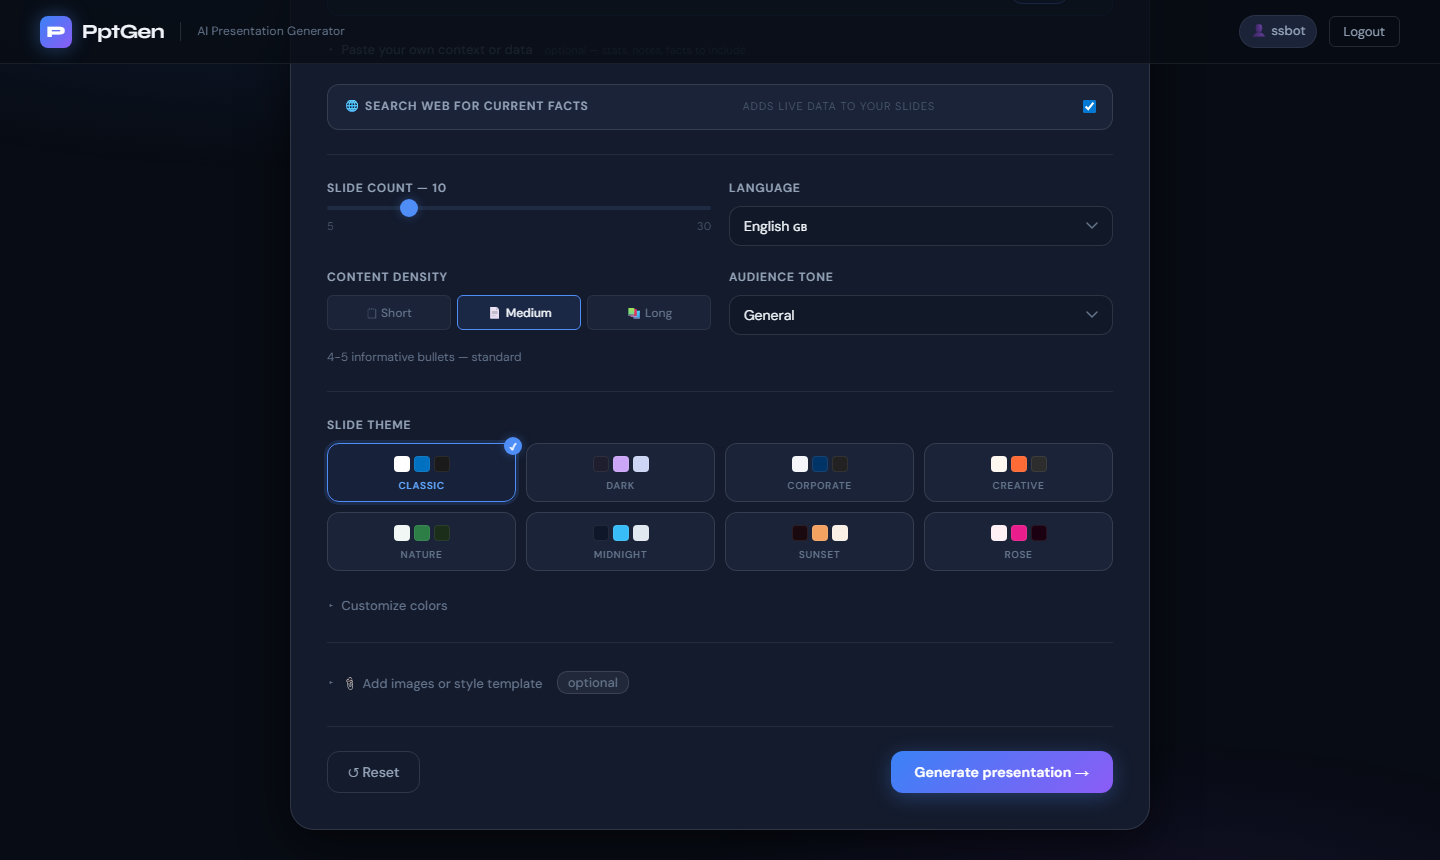
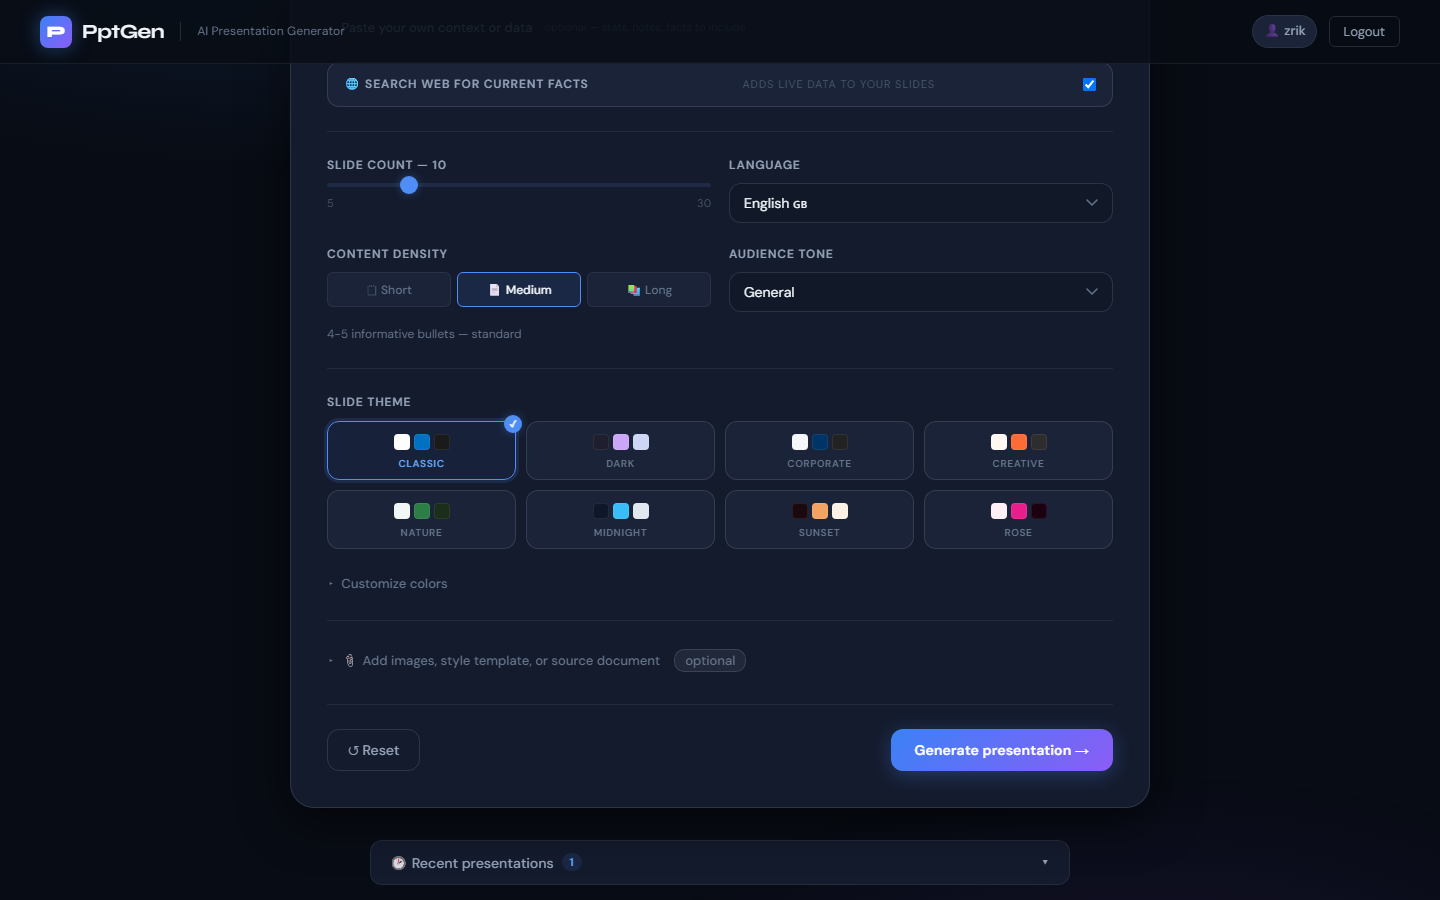
docs: refresh README + demo screenshots (zrik demo account)
Retook all 9 screenshots against the live site using a real zrik demo
account (register, configure with source-document upload, theme picker,
generation, editor, AI-rewrite). Added the source-document-grounding
feature to the Features table -- it existed in the backend but wasn't
documented.

diff --git a/README.md b/README.md
@@ -30,7 +30,7 @@
   </tr>
   <tr>
     <td align="center"><em>Landing — auth form with feature highlights</em></td>
-    <td align="center"><em>Configure — prompt, templates, themes</em></td>
+    <td align="center"><em>Configure — prompt, themes, slide count, source docs</em></td>
   </tr>
   <tr>
     <td><img src="docs/screenshots/6-generating.png" alt="Generating progress" width="100%"></td>
@@ -39,6 +39,14 @@
   <tr>
     <td align="center"><em>Real-time generation progress</em></td>
     <td align="center"><em>Presentation ready + slide editor</em></td>
+  </tr>
+  <tr>
+    <td><img src="docs/screenshots/5-themes.png" alt="Theme picker" width="100%"></td>
+    <td><img src="docs/screenshots/9-editing.png" alt="AI slide rewrite" width="100%"></td>
+  </tr>
+  <tr>
+    <td align="center"><em>8 built-in themes</em></td>
+    <td align="center"><em>AI-rewrite a slide in place</em></td>
   </tr>
 </table>
 
@@ -60,10 +68,11 @@ PptGen was built to eliminate the manual work of creating presentations. Instead
 | 4 | **Custom Colors** | Override background, accent and text colour on any theme |
 | 5 | **Slide Editor** | Edit titles, bullets, speaker notes; reorder or AI-rewrite any slide post-generation |
 | 6 | **Image Integration** | Auto-fetches relevant images per slide; user-uploaded images supported |
-| 7 | **Instant PPTX Export** | Downloads a fully editable `.pptx` in seconds |
-| 8 | **Presentation History** | Per-user history with one-click re-download |
-| 9 | **Real-time Progress** | SSE streaming with HTTP polling fallback |
-| 10 | **Auth & Security** | JWT + Argon2 password hashing; all write endpoints require auth |
+| 7 | **Source Document Grounding** | Upload a PDF/DOCX/TXT/MD alongside your prompt — its extracted text is injected as source content the AI writes from |
+| 8 | **Instant PPTX Export** | Downloads a fully editable `.pptx` in seconds |
+| 9 | **Presentation History** | Per-user history with one-click re-download |
+| 10 | **Real-time Progress** | SSE streaming with HTTP polling fallback |
+| 11 | **Auth & Security** | JWT + Argon2 password hashing; all write endpoints require auth |
 
 ---
 
